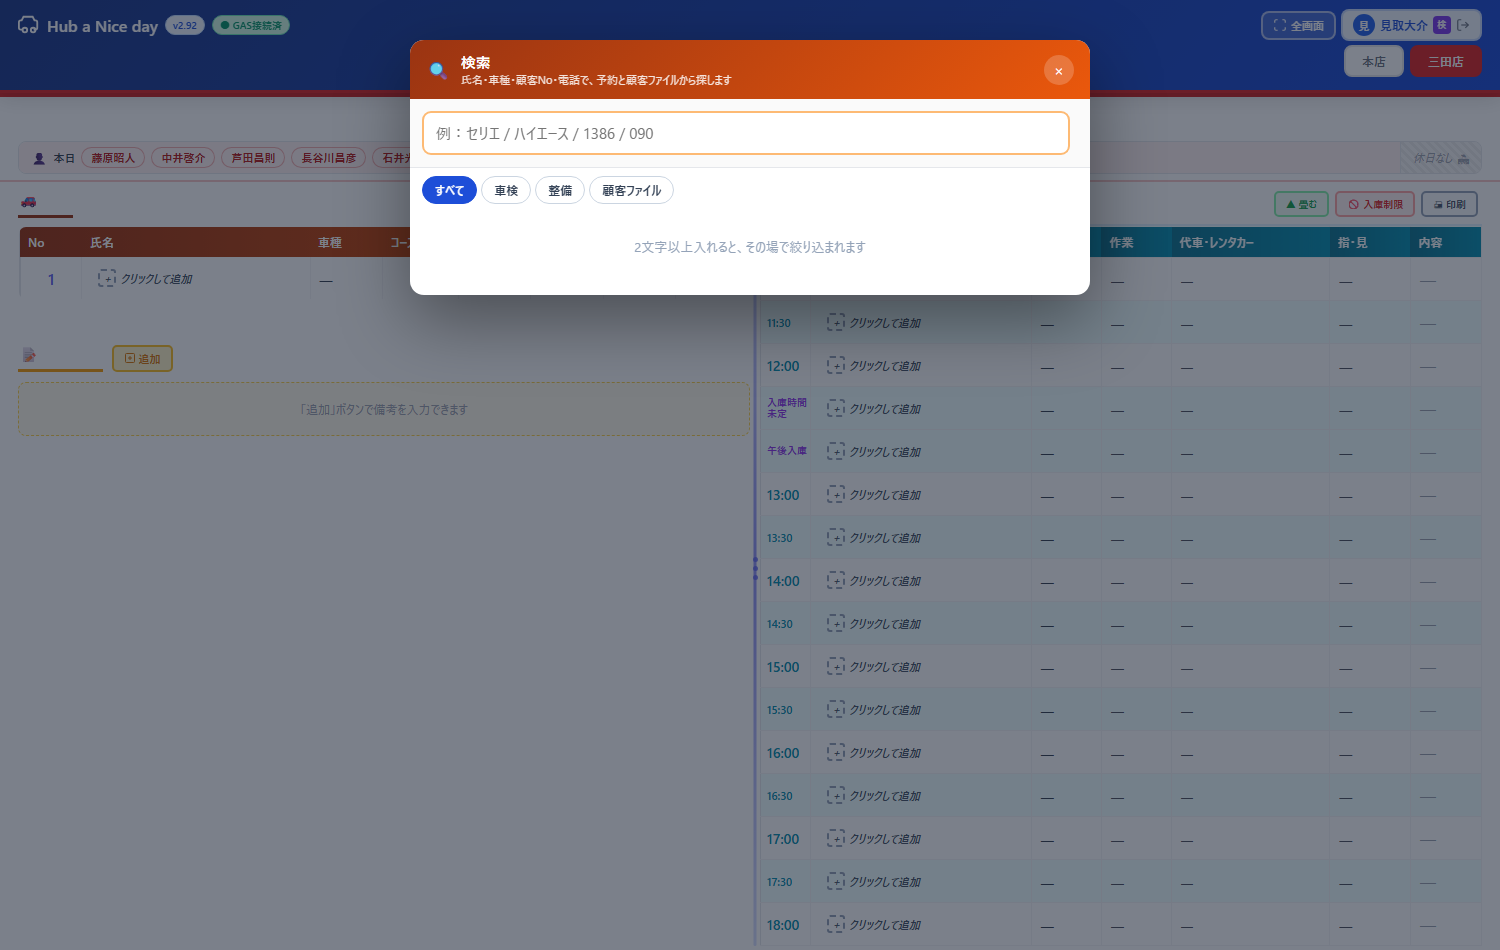
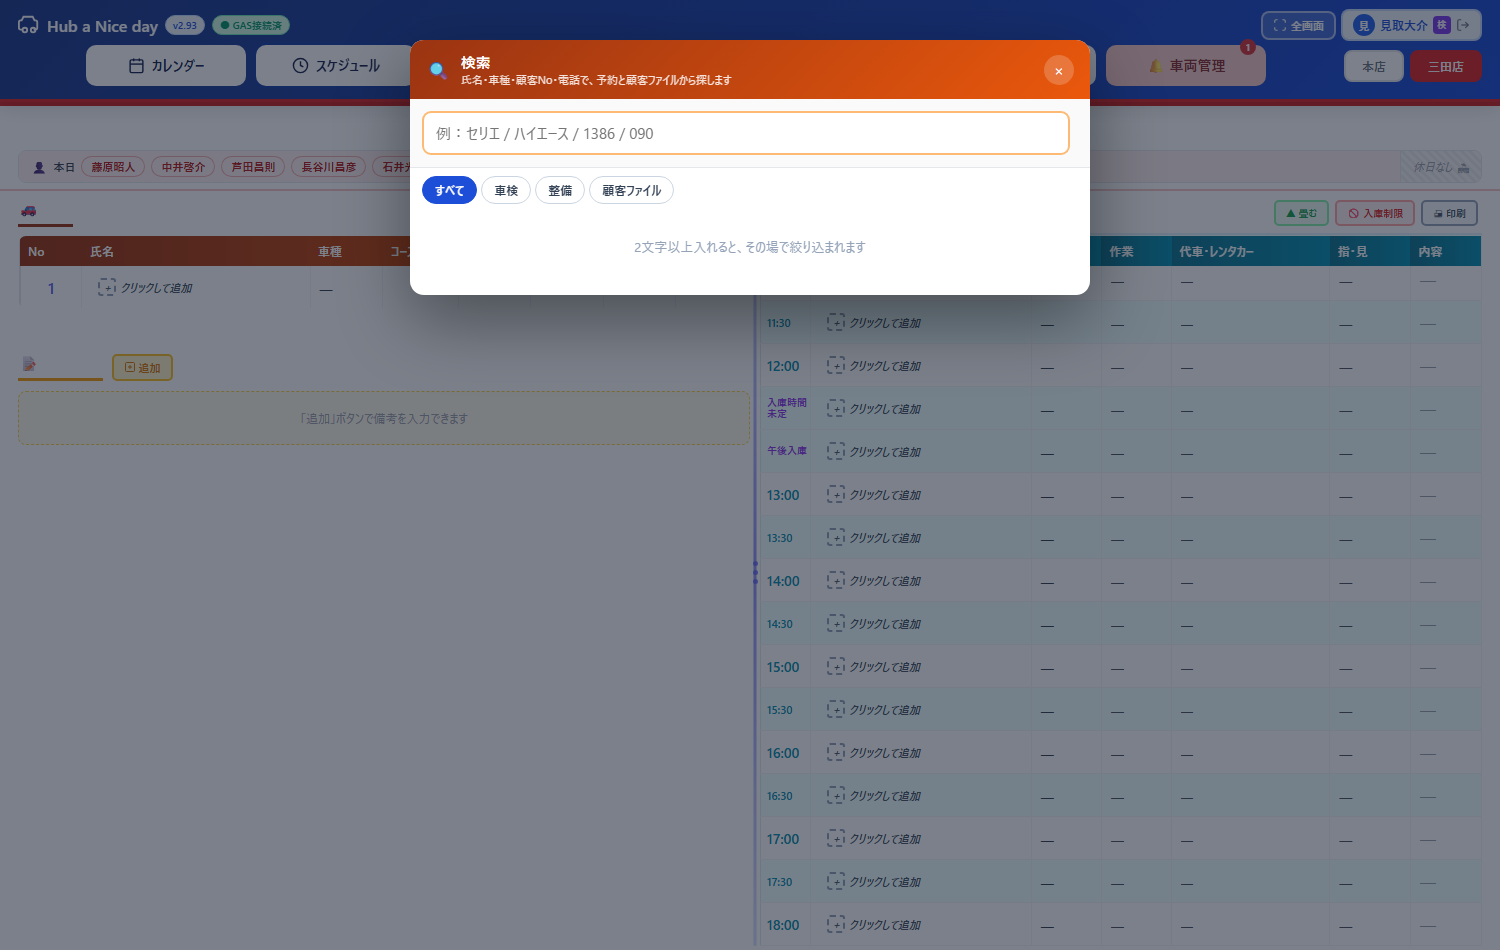
v2.94 ヘッダーの7個のボタンを以前の大きさ（12px・角丸7・アイコン13）に戻し、幅118pxで揃えて中央に並べる

diff --git a/index_dev.html b/index_dev.html
@@ -22,7 +22,7 @@
     // 開きっぱなしのタブが旧コードのまま動き続けるのを防ぐ。画面復帰時と定期に自分自身を
     // no-store+クエリ付きで取得し、__APP_BUILD が変わっていれば「更新」バナーを表示する。
     // 本番デプロイ時は port_to_main.js が __APP_BUILD を自動更新する（手動更新不要）。
-    window.__APP_BUILD='build-1790234364356';
+    window.__APP_BUILD='build-1790234765348';
     (function(){
       var RUNNING=window.__APP_BUILD, shown=false, checking=false;
       function runningVer(){
@@ -123,7 +123,7 @@
 const { useState, useEffect, useLayoutEffect, useRef, useCallback, memo, useMemo } = React;
 
 // ★ バージョン管理：アップデートのたびにここだけ変更する
-const APP_VERSION = '2.93';
+const APP_VERSION = '2.94';
 // 本人認証を必須にするか。false の間は従来どおり名前を選ぶだけで入れる（移行期間）。
 //   false … 全員が今までどおり使える。端末の登録（＋スタッフを追加）は先にできる。
 //   true  … その端末で本人確認を済ませた人しかログイン画面に出ない。
@@ -11987,15 +11987,15 @@ function AppInner() {
             </div>
             {/* 2行目：ナビ（同じ幅・中央揃え）＋ 店舗切替（2026-09-24 仕様書どおりに作り直し） */}
             <div style={{display:'flex',alignItems:'center',gap:10,paddingBottom:4}}>
-              <div style={{flex:1,minWidth:0,display:'flex',gap:10,alignItems:'center',justifyContent:'center',flexWrap:'nowrap'}}>
+              <div style={{flex:1,minWidth:0,display:'flex',gap:8,alignItems:'center',justifyContent:'center',flexWrap:'nowrap'}}>
                 {(()=>{
                   // 共通の見た目（仕様書：幅160・角丸10・14px/600・アイコン17・中央揃え）
-                  // 幅は160px。画面が狭い時だけ均等に縮む（折り返して2段になるのを防ぐ）
-                  const NAV={boxSizing:'border-box',width:160,flex:'0 1 160px',minWidth:104,padding:'11px 8px',borderRadius:10,border:'none',
-                    display:'flex',alignItems:'center',justifyContent:'center',gap:7,fontSize:14,fontWeight:600,
+                  // 以前のカレンダー・スケジュールと同じ大きさ（12px・角丸7）で、幅だけ揃えて中央に並べる（2026-09-24 ユーザー指示）
+                  const NAV={boxSizing:'border-box',width:118,flex:'0 1 118px',minWidth:92,padding:'6px 12px',borderRadius:7,border:'none',
+                    display:'flex',alignItems:'center',justifyContent:'center',gap:4,fontSize:12,fontWeight:700,
                     whiteSpace:'nowrap',cursor:'pointer',textDecoration:'none',position:'relative'};
                   const RING='0 0 0 2px #1A3FA6';
-                  const ExtMark=()=>(<svg width="13" height="13" viewBox="0 0 24 24" fill="none" stroke="currentColor" strokeWidth="2.4" strokeLinecap="round" strokeLinejoin="round" style={{flexShrink:0,opacity:.8}}><path d="M18 13v6a2 2 0 0 1-2 2H5a2 2 0 0 1-2-2V8a2 2 0 0 1 2-2h6"/><path d="M15 3h6v6"/><path d="M10 14 21 3"/></svg>);
+                  const ExtMark=()=>(<svg width="11" height="11" viewBox="0 0 24 24" fill="none" stroke="currentColor" strokeWidth="2.4" strokeLinecap="round" strokeLinejoin="round" style={{flexShrink:0,opacity:.8}}><path d="M18 13v6a2 2 0 0 1-2 2H5a2 2 0 0 1-2-2V8a2 2 0 0 1 2-2h6"/><path d="M15 3h6v6"/><path d="M10 14 21 3"/></svg>);
                   const today=new Date();today.setHours(0,0,0,0);
                   const alertCnt=Array.isArray(vehicleData)?vehicleData.filter(v=>{
                     if(!Array.isArray(v.inspections))return false;
@@ -12008,26 +12008,26 @@ function AppInner() {
                   return(<>
                     <button onClick={()=>setView('calendar')}
                       style={{...NAV,background:'#FFFFFF',color:'#1A2550',boxShadow:view==='calendar'?RING:'none'}}>
-                      <Calendar size={17}/>カレンダー
+                      <Calendar size={13}/>カレンダー
                     </button>
                     {selDate&&(
                       <button onClick={()=>setView('schedule')}
                         style={{...NAV,background:'#FFFFFF',color:'#1A2550',boxShadow:view==='schedule'?RING:'none'}}>
-                        <Clock size={17}/>スケジュール
+                        <Clock size={13}/>スケジュール
                       </button>
                     )}
                     <button onClick={()=>{if(selDate)setLoanerMonth(new Date(selDate.getFullYear(),selDate.getMonth(),1));setPickMode(false);setView('loaner');}}
                       style={{...NAV,background:'#FFFFFF',color:'#1A2550',boxShadow:view==='loaner'?RING:'none'}}>
-                      <Car size={17}/>代車管理
+                      <Car size={13}/>代車管理
                     </button>
                     <button onClick={()=>setShowFind(true)}
                       style={{...NAV,background:'#E8492E',color:'#FFFFFF'}}>
-                      <Search size={17}/>検索
+                      <Search size={13}/>検索
                     </button>
                     {/* 顧客リスト・料金表は別タブで開く（2026-09-24 ユーザー指示） */}
                     <a href="./customers.html" target="_blank" rel="noopener noreferrer"
                       style={{...NAV,background:'#3CB371',color:'#FFFFFF'}}>
-                      <Users size={17}/>顧客リスト<ExtMark/>
+                      <Users size={13}/>顧客リスト<ExtMark/>
                     </a>
                     <a href="https://www.midori-m.com/syaken/" target="_blank" rel="noopener noreferrer"
                       style={{...NAV,background:'#FFFFFF',color:'#1A2550'}}>

diff --git a/customers.html b/customers.html
@@ -20,7 +20,7 @@
   // 開きっぱなしのタブが旧コードのまま動き続けるのを防ぐ。画面復帰時と定期に自分自身を
   // no-store+クエリ付きで取得し、__APP_BUILD が変わっていれば「更新」バナーを表示する。
   // 本番デプロイ時は port_to_main.js が __APP_BUILD を自動更新する（手動更新不要）。
-  window.__APP_BUILD='build-1790234364356';
+  window.__APP_BUILD='build-1790234765348';
   (function(){
     var RUNNING=window.__APP_BUILD, shown=false, checking=false;
     function runningVer(){
@@ -141,7 +141,7 @@ const hubRenew = async name => {};
 // index側の全画面オーバーレイ（iframe）内で開かれているか。埋め込み時は
 // 「スケジュールに戻る」がページ遷移ではなく親へのpostMessage（オーバーレイ閉鎖）になる。
 const IS_EMBED=(()=>{try{return window.self!==window.top;}catch(e){return true;}})();
-const APP_VERSION='2.93'; // 表示用バージョン。更新ごとに上げる（軽微+0.01／大型は整数を上げる）。index_dev.htmlと揃える
+const APP_VERSION='2.94'; // 表示用バージョン。更新ごとに上げる（軽微+0.01／大型は整数を上げる）。index_dev.htmlと揃える
 const storKey=(base,sid)=>`${STOR}${sid}-${base}`;
 const CHUNK_SIZE=100;
 // ファイル名をGASキーに使える形に変換

diff --git a/mobile.html b/mobile.html
@@ -17,7 +17,7 @@
   // 画面復帰時と定期に自分自身をno-storeで取得し、__APP_BUILDが変わっていれば更新バナーを表示する。
   // タップ時は cache:'reload' で新HTMLをHTTPキャッシュへ焼き直してから reload するので、確実に新版になる
   // （アプリを消したりURLを打ち直す必要はない）。本番デプロイ時は port_to_main.js が __APP_BUILD を自動更新する。
-  window.__APP_BUILD='build-1790234364356';
+  window.__APP_BUILD='build-1790234765348';
   (function(){
     var RUNNING=window.__APP_BUILD, shown=false, checking=false;
     function runningVer(){
@@ -90,7 +90,7 @@ input,select,textarea{font-family:inherit;font-size:16px;}
 <script id="app-jsx" type="text/plain">
 const {useState,useEffect,useCallback,useMemo,useRef,memo}=React;
 // ★ バージョン管理：システム全体で1つ。変更のたびにindex_dev.htmlのAPP_VERSIONと同値で0.01上げる
-const MOBILE_VERSION='2.93';
+const MOBILE_VERSION='2.94';
 // 本人認証を必須にするか。index_dev.html の AUTH_REQUIRED と必ず同じ値にすること。
 //   false … 従来どおり番号を打てば入れる（移行期間）。登録の入口だけ増える。
 //   true  … この端末で本人確認を済ませた人しか入れない。

diff --git a/admin.html b/admin.html
@@ -220,7 +220,7 @@ td.act{text-align:right;white-space:nowrap}
 //  この画面を開けるのは、許可簿（Firestore の meta/allowed）で role=admin の人だけ。
 //  ログインは Firebase Authentication のメールリンク（2026-09-18〜）。判定は Firestore のルールが行う。画面の申告は信用しない。
 // =====================================================================
-var APP_VERSION = '2.93';
+var APP_VERSION = '2.94';
 var GAS_URL     = 'https://script.google.com/macros/s/AKfycbyNE1eVKjibSPLEA0HrVZI8NxEFKWQfMYQ6cKoM1Gznauy9AhfZqHzgs1zzMaxXnQ1_/exec';
 // 環境の切り替え（2026-09-15）。この1ファイルで本番とDEVの両方を扱う。
 //   既定はDEV（安全側）。URLに ?env=prod が付いている時だけ本番のデータを扱う。
